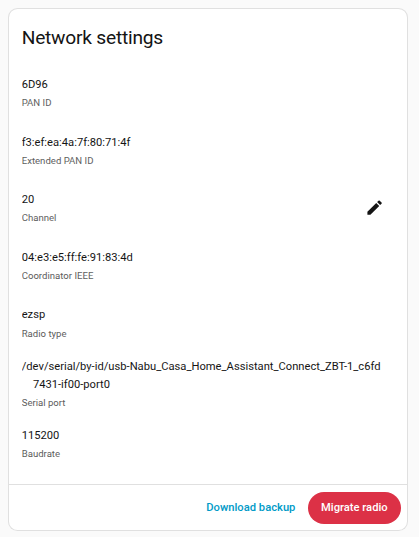
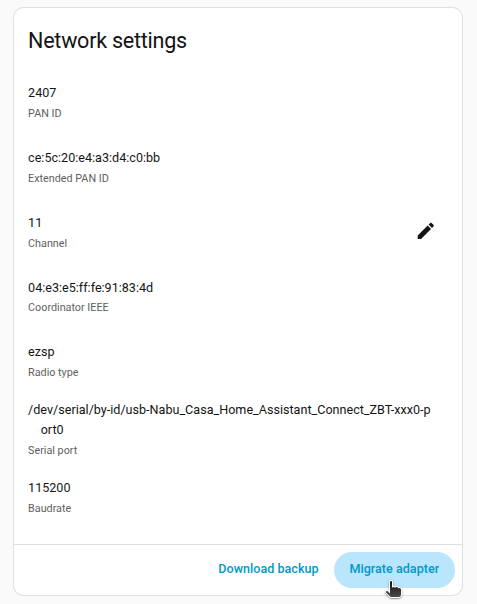
ZBT-2 Z2M migration (#125)
* ZBT-2 Z2M migration

* Update screenshot and UI string to reflect current software

* Add step about repair issue

* Fix typo

* Update screenshot

* Remove step about repair issue - it should not occur in that setup

* Tweak

* Update _includes/connect-zbt-1/getting-started/migrate-z2m-to-zha-on-old-adapter.md

* fix integration name

* Streamline steps

* Add related topic

* remove repair image

* Update _includes/connect-zbt-1/getting-started/migrate-z2m-to-zha-on-old-adapter.md

* Remove unrelated image

* Update src/connect-zbt-2/getting-started-with-zigbee/zbt-2-migrating-z2m-network-using-zha.md

---------

diff --git a/src/connect-zbt-1/getting-started-with-zigbee/zbt-1-migrate-z2m-network.md b/src/connect-zbt-1/getting-started-with-zigbee/zbt-1-migrate-z2m-network.md
@@ -7,21 +7,21 @@ zendesk:
 productName: "Home Assistant Connect&nbsp;ZBT-1"
 ---
 
-Follow this guide if you have a Zigbee2MQTT network running and want to migrate to Home Assistant Connect&nbsp;ZBT-1 and Zigbee Home Automation (ZHA).
+Follow this guide if you have a Zigbee2MQTT network running and want to migrate to {{ productName }} and Zigbee Home Automation (ZHA).
 
 This migration is done in 2 steps:
 
 1. [Migrating the Zigbee2MQTT network to ZHA using the old adapter](#migrating-a-zigbee-network-from-zigbee2mqtt-to-zha-using-the-old-adapter).
-2. [Migrating this ZHA network to Connect&nbsp;ZBT-1](#migrating-the-zha-network-to-connect-zbt-1)
+2. [Migrating this ZHA network to {{ productName }}](#migrating-the-zha-network-to-connect-zbt-1)
 
 {% callout "note" %}
 
 **Not possible to migrate all settings and devices**
 
-This procedure only helps migrate basic network settings to Home Assistant Connect&nbsp;ZBT-1.
+This procedure only helps migrate basic network settings to {{ productName }}.
 
 - Customizations like device names will be lost and automations will need to be updated.
-- Most powered devices like lightbulbs will be re-discovered over time (you can speed this up by rebooting the device) but your battery-powered devices may need to be re-joined to the network for the migration to complete.
+- Most powered devices like light bulbs will be re-discovered over time (you can speed this up by rebooting the device) but your battery-powered devices may need to be re-joined to the network for the migration to complete.
 - There is currently no migration path to migrate all settings and devices.
 
 {% endcallout %}
@@ -30,93 +30,9 @@ If you no longer have the old adapter, you can [migrate via a Zigbee2MQTT backup
 
 ## Migrating a Zigbee network from Zigbee2MQTT to ZHA using the old adapter
 
-{% steps %}
-{% step "Stopping the Zigbee2MQTT add-on" %}
-{% image "/static/img/connect-zbt-1/z2m-delete-add-on.png" "Stop the Zigbee2MQTT add-on" %}
-{% stepContent %}
+{% include 'connect-zbt-1/getting-started/migrate-z2m-to-zha-on-old-adapter.md' %}
 
-   - Under **Settings** > **Add-ons**, in the **Zigbee2MQTT** add-on, select **Stop**.
-   - Zigbee2MQTT uses the MQTT discovery feature to make the Zigbee devices available in Home Assistant. After removing the Zigbee2MQTT add-on, the devices are still present in Home Assistant since the MQTT broker is still holding on to the MQTT discovery messages.
-   - It is recommended to remove these stale devices from the MQTT broker (see next steps).
-
-{% endstepContent %}
-{% endstep %}
-
-{% step "Removing Zigbee2MQTT devices (option 1)" %}
-{% image "/static/img/connect-zbt-1/z2m-mqq-integration-new-01.png" "Remove Zigbee2MQTT devices (option 1)" %}
-{% stepContent %}
-
-- If you don't use MQTT outside of Zigbee2MQTT, you can delete the Mosquitto Broker integration.
-  1. Under [**Settings** > **Devices & services**](https://my.home-assistant.io/redirect/integrations/), select the **Mosquitto broker** integration.
-  2. Select the three dots and in the dropdown menu, select **Delete**.
-
-{% endstepContent %}
-{% endstep %}
-
-{% step "Removing Zigbee2MQTT devices (option 2)" %}
-{% image "/static/img/connect-zbt-1/z2m-mqtt-dereg-device-01.png" "Remove Zigbee2MQTT devices (option 2)" %}
-{% stepContent %}
-
-- If you don't want to delete the Mosquitto Broker integration, you can remove the devices from the MQTT network.
-  1. In the integration card, select **Devices**, under **Device info**, select **Delete**.
-  2. Repeat this for every device.
-
-{% endstepContent %}
-{% endstep %}
-
-{% step "Adding the ZHA integration (1)" %}
-{% image "/static/img/connect-zbt-1/z2m-migrate-zha-15.png" "Add ZHA integration (1)" %}
-{% stepContent %}
-
-1. Under [**Settings** > **Devices & services**](https://my.home-assistant.io/redirect/integrations/), if you do not see the ZHA integration, select the **Add integration** button.
-2. From the dropdown list, select **Add Zigbee device**.
-
-{% endstepContent %}
-{% endstep %}
-
-{% step "Adding the ZHA integration (2)." %}
-{% image "/static/img/connect-zbt-1/z2m-migrate-zha-13.png" "Add ZHA integration (2)" %}
-{% stepContent %}
-
-1. Make sure your old adapter is still plugged in.
-2. Select **Proceed**.
-
-{% endstepContent %}
-{% endstep %}
-
-{% step "Adding the ZHA integration (3)" %}
-{% image "/static/img/connect-zbt-1/z2m-migrate-zha-14.png" "Add ZHA integration (3)" %}
-{% stepContent %}
-
-1. Choose the serial device path of your old adapter.
-2. Select **Submit**.
-{% endstepContent %}
-{% endstep %}
-
-{% step "Choosing the Zigbee setup" %}
-{% image "/static/img/connect-zbt-1/z2m-migrate-zha-21.png" "Choose the network settings for your radio" %}
-{% stepContent %}
-
-- Select **Advanced setup**.
-
-{% endstepContent %}
-{% endstep %}
-
-{% step "Choosing the network settings for your radio" %}
-{% image "/static/img/connect-zbt-1/z2m-migrate-zha-01.png" "Choose the network settings for your radio" %}
-{% stepContent %}
-
-- Select **Keep network settings**.
-  - This lets Zigbee Home Automation (ZHA) import settings from another device that was used with software other than ZHA.
-  - This way, some of the network settings can be migrated automatically.
-
-- {% stepResult "You can now start migrating the ZHA network as described below." %}
-
-{% endstepContent %}
-{% endstep %}
-{% endsteps %}
-
-## Migrating the ZHA network to Connect&nbsp;ZBT-1
+## Migrating the ZHA network to Home Assistant Connect&nbsp;ZBT-1
 
 {% include 'connect-zbt-1/getting-started/migrate-zha-only.md' %}
 

diff --git a/_includes/connect-zbt-1/getting-started/migrate-z2m-to-zha-on-old-adapter.md b/_includes/connect-zbt-1/getting-started/migrate-z2m-to-zha-on-old-adapter.md
@@ -1,0 +1,85 @@
+{% steps %}
+{% step "Stopping the Zigbee2MQTT add-on" %}
+{% image "/static/img/connect-zbt-1/z2m-delete-add-on.png" "Stop the Zigbee2MQTT add-on" %}
+{% stepContent %}
+
+   - Under **Settings** > **Add-ons**, in the **Zigbee2MQTT** add-on, select **Stop**.
+   - Zigbee2MQTT uses the MQTT discovery feature to make the Zigbee devices available in Home Assistant. After removing the Zigbee2MQTT add-on, the devices are still present in Home Assistant since the MQTT broker is still holding on to the MQTT discovery messages.
+   - It is recommended to remove these stale devices from the MQTT broker (see next steps).
+
+{% endstepContent %}
+{% endstep %}
+
+{% step "Removing Zigbee2MQTT devices (option 1)" %}
+{% image "/static/img/connect-zbt-1/z2m-mqq-integration-new-01.png" "Remove Zigbee2MQTT devices (option 1)" %}
+{% stepContent %}
+
+- If you don't use MQTT outside of Zigbee2MQTT, you can delete the **MQTT** integration.
+  1. Under [**Settings** > **Devices & services**](https://my.home-assistant.io/redirect/integrations/), select the **MQTT** integration.
+  2. Select the three dots and in the dropdown menu, select **Delete**.
+
+{% endstepContent %}
+{% endstep %}
+
+{% step "Removing Zigbee2MQTT devices (option 2)" %}
+{% image "/static/img/connect-zbt-1/z2m-mqtt-dereg-device-01.png" "Remove Zigbee2MQTT devices (option 2)" %}
+{% stepContent %}
+
+- If you don't want to delete the **MQTT** integration, you can remove the individual devices provided by the MQTT integration.
+  1. In the integration card, select **Devices**, under **Device info**, select **Delete**.
+  2. Repeat this for every device.
+
+{% endstepContent %}
+{% endstep %}
+
+{% step "Adding the ZHA integration (1)" %}
+{% image "/static/img/connect-zbt-1/z2m-migrate-zha-15.png" "Add ZHA integration (1)" %}
+{% stepContent %}
+
+1. Under [**Settings** > **Devices & services**](https://my.home-assistant.io/redirect/integrations/), if you do not see the ZHA integration, select the **Add integration** button.
+2. From the dropdown list, select **Add Zigbee device**.
+
+{% endstepContent %}
+{% endstep %}
+
+{% step "Adding the ZHA integration (2)" %}
+{% image "/static/img/connect-zbt-1/z2m-migrate-zha-13.png" "Add ZHA integration (2)" %}
+{% stepContent %}
+
+1. Make sure your old adapter is still plugged in.
+2. Select **Proceed**.
+
+{% endstepContent %}
+{% endstep %}
+
+{% step "Adding the ZHA integration (3)" %}
+{% image "/static/img/connect-zbt-1/z2m-migrate-zha-14.png" "Add ZHA integration (3)" %}
+{% stepContent %}
+
+1. Choose the serial device path of your old adapter.
+2. Select **Submit**.
+{% endstepContent %}
+{% endstep %}
+
+{% step "Choosing the Zigbee setup" %}
+{% image "/static/img/connect-zbt-1/z2m-migrate-zha-21.png" "Choose the network settings for your radio" %}
+{% stepContent %}
+
+- Select **Advanced setup**.
+
+{% endstepContent %}
+{% endstep %}
+
+{% step "Choosing the network settings for your adapter" %}
+{% image "/static/img/connect-zbt-1/z2m-migrate-zha-01.png" "Choose the network settings for your radio" %}
+{% stepContent %}
+
+- Select **Keep adapter network settings**.
+  - This lets Zigbee Home Automation (ZHA) import settings from another device that was used with software other than ZHA.
+  - This way, some of the network settings can be migrated automatically.
+
+- {% stepResult "You can now start migrating the ZHA network as described below." %}
+
+{% endstepContent %}
+{% endstep %}
+{% endsteps %}

diff --git a/src/connect-zbt-2/getting-started-with-zigbee/zbt-2-migrating-z2m-network-using-zha.md b/src/connect-zbt-2/getting-started-with-zigbee/zbt-2-migrating-z2m-network-using-zha.md
@@ -1,8 +1,41 @@
 ---
 zendesk:
   article_id: 29400651300893
-  name:  Migrate a Zigbee2MQTT network using Zigbee Home Automation (ZHA)
+  name:  Migrate a Zigbee2MQTT network to Home Assistant Connect ZBT-2 using Zigbee Home Automation (ZHA)
   position: 30
   labels: connect-zbt-2, getting-started
+productName: "Home Assistant Connect&nbsp;ZBT-2"
 ---
 
+Follow this guide if you have a Zigbee2MQTT network running and want to migrate to {{ productName }} and Zigbee Home Automation (ZHA).
+
+This migration is done in 2 steps:
+
+1. [Migrating the Zigbee2MQTT network to ZHA using the old adapter](#migrating-a-zigbee-network-from-zigbee2mqtt-to-zha-using-the-old-adapter).
+2. [Migrating this ZHA network to {{ productName }}](#migrating-the-zha-network-to-home-assistant-connect-zbt-2)
+
+{% callout "note" %}
+
+**Not possible to migrate all settings and devices**
+
+This procedure only helps migrate basic network settings to {{ productName }}.
+
+- Customizations like device names will be lost and automations will need to be updated.
+- Most powered devices like light bulbs will be re-discovered over time (you can speed this up by rebooting the device) but your battery-powered devices may need to be re-joined to the network for the migration to complete.
+- There is currently no migration path to migrate all settings and devices.
+
+{% endcallout %}
+
+If you no longer have the old adapter, you can [migrate via a Zigbee2MQTT backup](/hc/en-us/articles/29400771412893).
+
+## Migrating a Zigbee network from Zigbee2MQTT to ZHA using the old adapter
+
+{% include 'connect-zbt-1/getting-started/migrate-z2m-to-zha-on-old-adapter.md' %}
+
+## Migrating the ZHA network to Home Assistant Connect ZBT-2
+
+{% include 'connect-zbt-2/getting-started/zbt-2-migrate-zha-only.md' %}
+
+## Related topics
+
+- [Connectivity issues due to interference](/hc/en-us/articles/31347207026845)

diff --git a/_includes/connect-zbt-2/getting-started/zbt-2-migrate-zha-only.md b/_includes/connect-zbt-2/getting-started/zbt-2-migrate-zha-only.md
@@ -1,4 +1,4 @@
-<!---steps on migrating an existing ZHA network to a Home Assistant Connect ZBT-1 stick. -->
+<!---steps on migrating an existing ZHA network to a Home Assistant Connect ZBT-2 adapter. -->
 
 {% steps %}
 {% step "Starting migration" %}
@@ -11,18 +11,7 @@
 {% endstepContent %}
 {% endstep %}
 
-{% step "Adding an extension cable and the adapter" %}
-{% image "/static/img/connect-zbt-1/connect-zbt-1-raspi-01.jpg" "Home Assistant Connect&nbsp;ZBT-1 connected to a Raspberry Pi via extension cable" %}
-{% stepContent %}
-
-{% include "fragments/zbt-1-notice-interference.md" %}
-
-1. Plug the Home Assistant Connect&nbsp;ZBT-1 into the USB extension cable.
-2. Plug the extension cable into your Home Assistant instance.
-3. If you are using the standalone [Home Assistant Container](https://www.home-assistant.io/docs/glossary/#home-assistant-container) installation method, make sure Connect&nbsp;ZBT-1 is [mapped to the container](https://www.home-assistant.io/installation/linux#exposing-devices).
-
-{% endstepContent %}
-{% endstep %}
+{% include "connect-zbt-2/getting-started/plug-in-zbt-2-and-extension-cable.md" %}
 
 {% step "Reconfiguring ZHA" %}
 {% image "/static/img/connect-zbt-1/z2m-migrate-zha-03.png" "Screenshot showing the Reconfigure ZHA dialog" %}
@@ -43,7 +32,7 @@
 {% endstep %}
 
 {% step "Choosing the port for the new adapter" %}
-{% image "/static/img/connect-zbt-1/connect-zbt-1-migrate-zha-select-port.png" "Screenshot showing the Select a serial port dialog" %}
+{% image "/static/img/connect-zbt-2/z2m-migrate-zha-to-new-adapter.png" "Screenshot showing the Select a serial port dialog" %}
 {% stepContent %}
 
 - Choose the serial port showing your new adapter and select **Submit**.

diff --git a/_includes/connect-zbt-1/getting-started/plug-in-zbt-1-and-extension-cable.md b/_includes/connect-zbt-1/getting-started/plug-in-zbt-1-and-extension-cable.md
@@ -5,9 +5,9 @@
 
 {% include "fragments/zbt-1-notice-interference.md" %}
 
-- Plug the Home Assistant Connect&nbsp;ZBT-1 into the USB extension cable.
-- Plug the extension cable into your Home Assistant instance.
-- If you are using the standalone [Home Assistant Container](https://www.home-assistant.io/docs/glossary/#home-assistant-container) installation method, make sure Connect ZBT-1 is [mapped to the container](https://www.home-assistant.io/installation/linux#exposing-devices).
+1. Plug the Home Assistant Connect&nbsp;ZBT-1 into the USB extension cable.
+2. Plug the extension cable into your Home Assistant instance.
+3. If you are using the standalone [Home Assistant Container](https://www.home-assistant.io/docs/glossary/#home-assistant-container) installation method, make sure Connect ZBT-1 is [mapped to the container](https://www.home-assistant.io/installation/linux#exposing-devices).
 
 {% endstepContent %}
 {% endstep %}

diff --git a/src/connect-zbt-1/getting-started-with-zigbee/zbt-1-migrate-existing-zha-network-from-backup.md b/src/connect-zbt-1/getting-started-with-zigbee/zbt-1-migrate-existing-zha-network-from-backup.md
@@ -82,7 +82,7 @@ Please note that not all settings can be migrated in this case:
 
 1. Plug the Home Assistant Connect&nbsp;ZBT-1 into the USB extension cable.
 2. Plug the extension cable into your Home Assistant instance.
-3. If you are using the standalone Home Assistant Container installation method, make sure Connect&nbsp;ZBT-1 is [mapped to the container](https://www.home-assistant.io/installation/linux#exposing-devices).
+3. If you are using the standalone [Home Assistant Container](https://www.home-assistant.io/docs/glossary/#home-assistant-container) installation method, make sure Connect&nbsp;ZBT-1 is [mapped to the container](https://www.home-assistant.io/installation/linux#exposing-devices).
 
 {% endstepContent %}
 {% endstep %}
